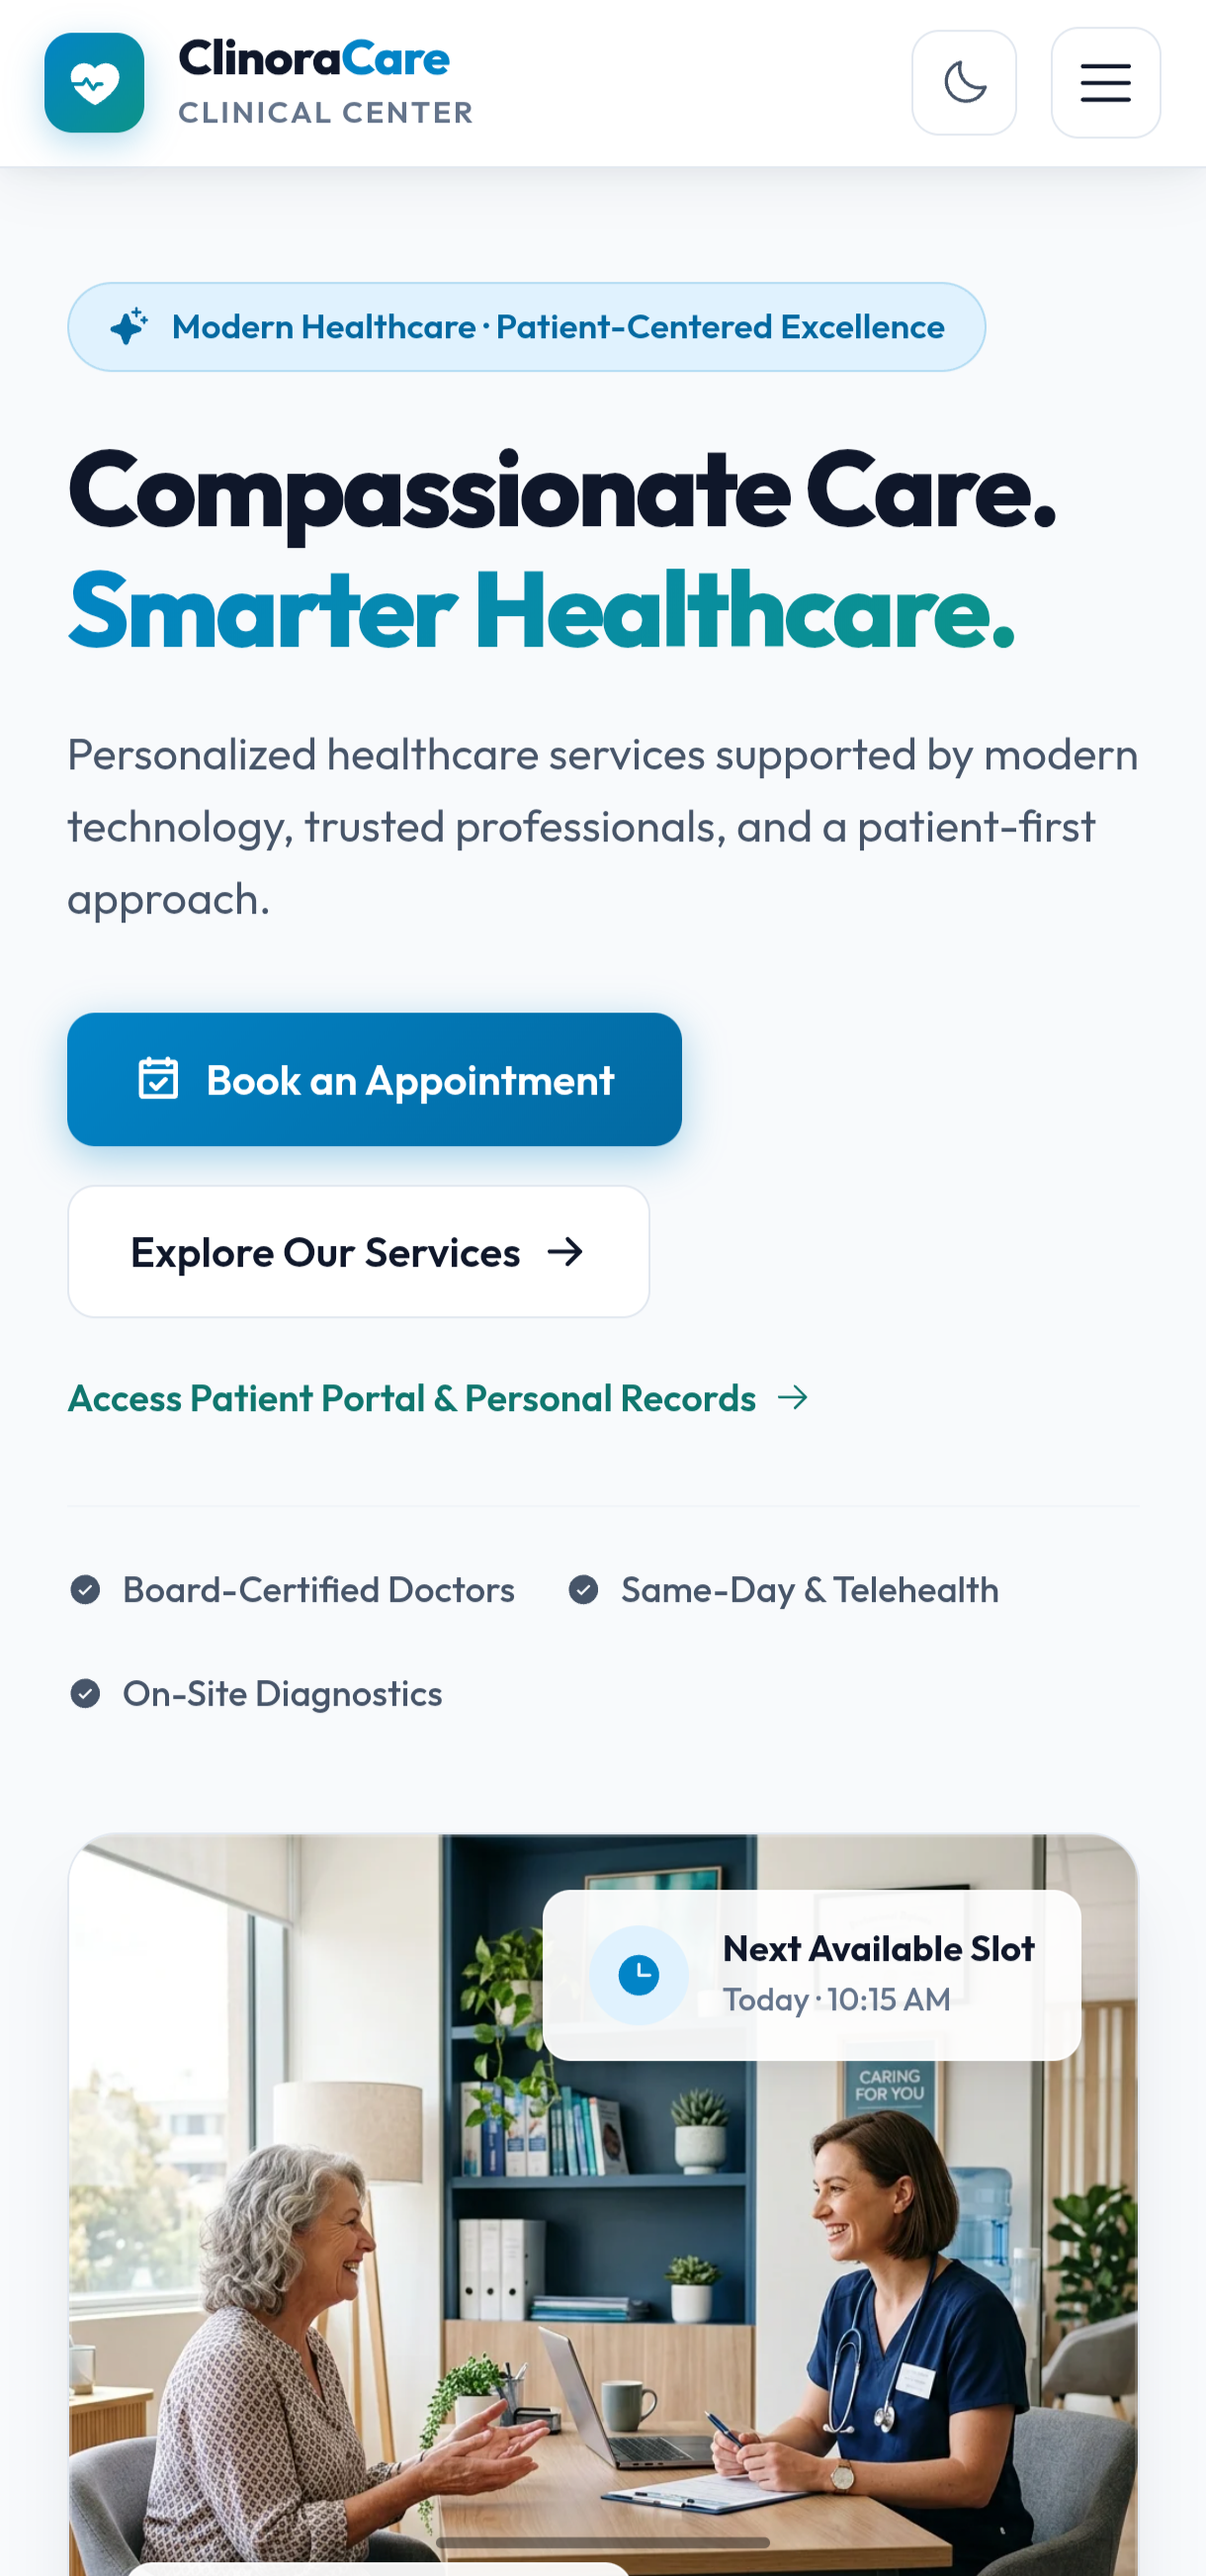
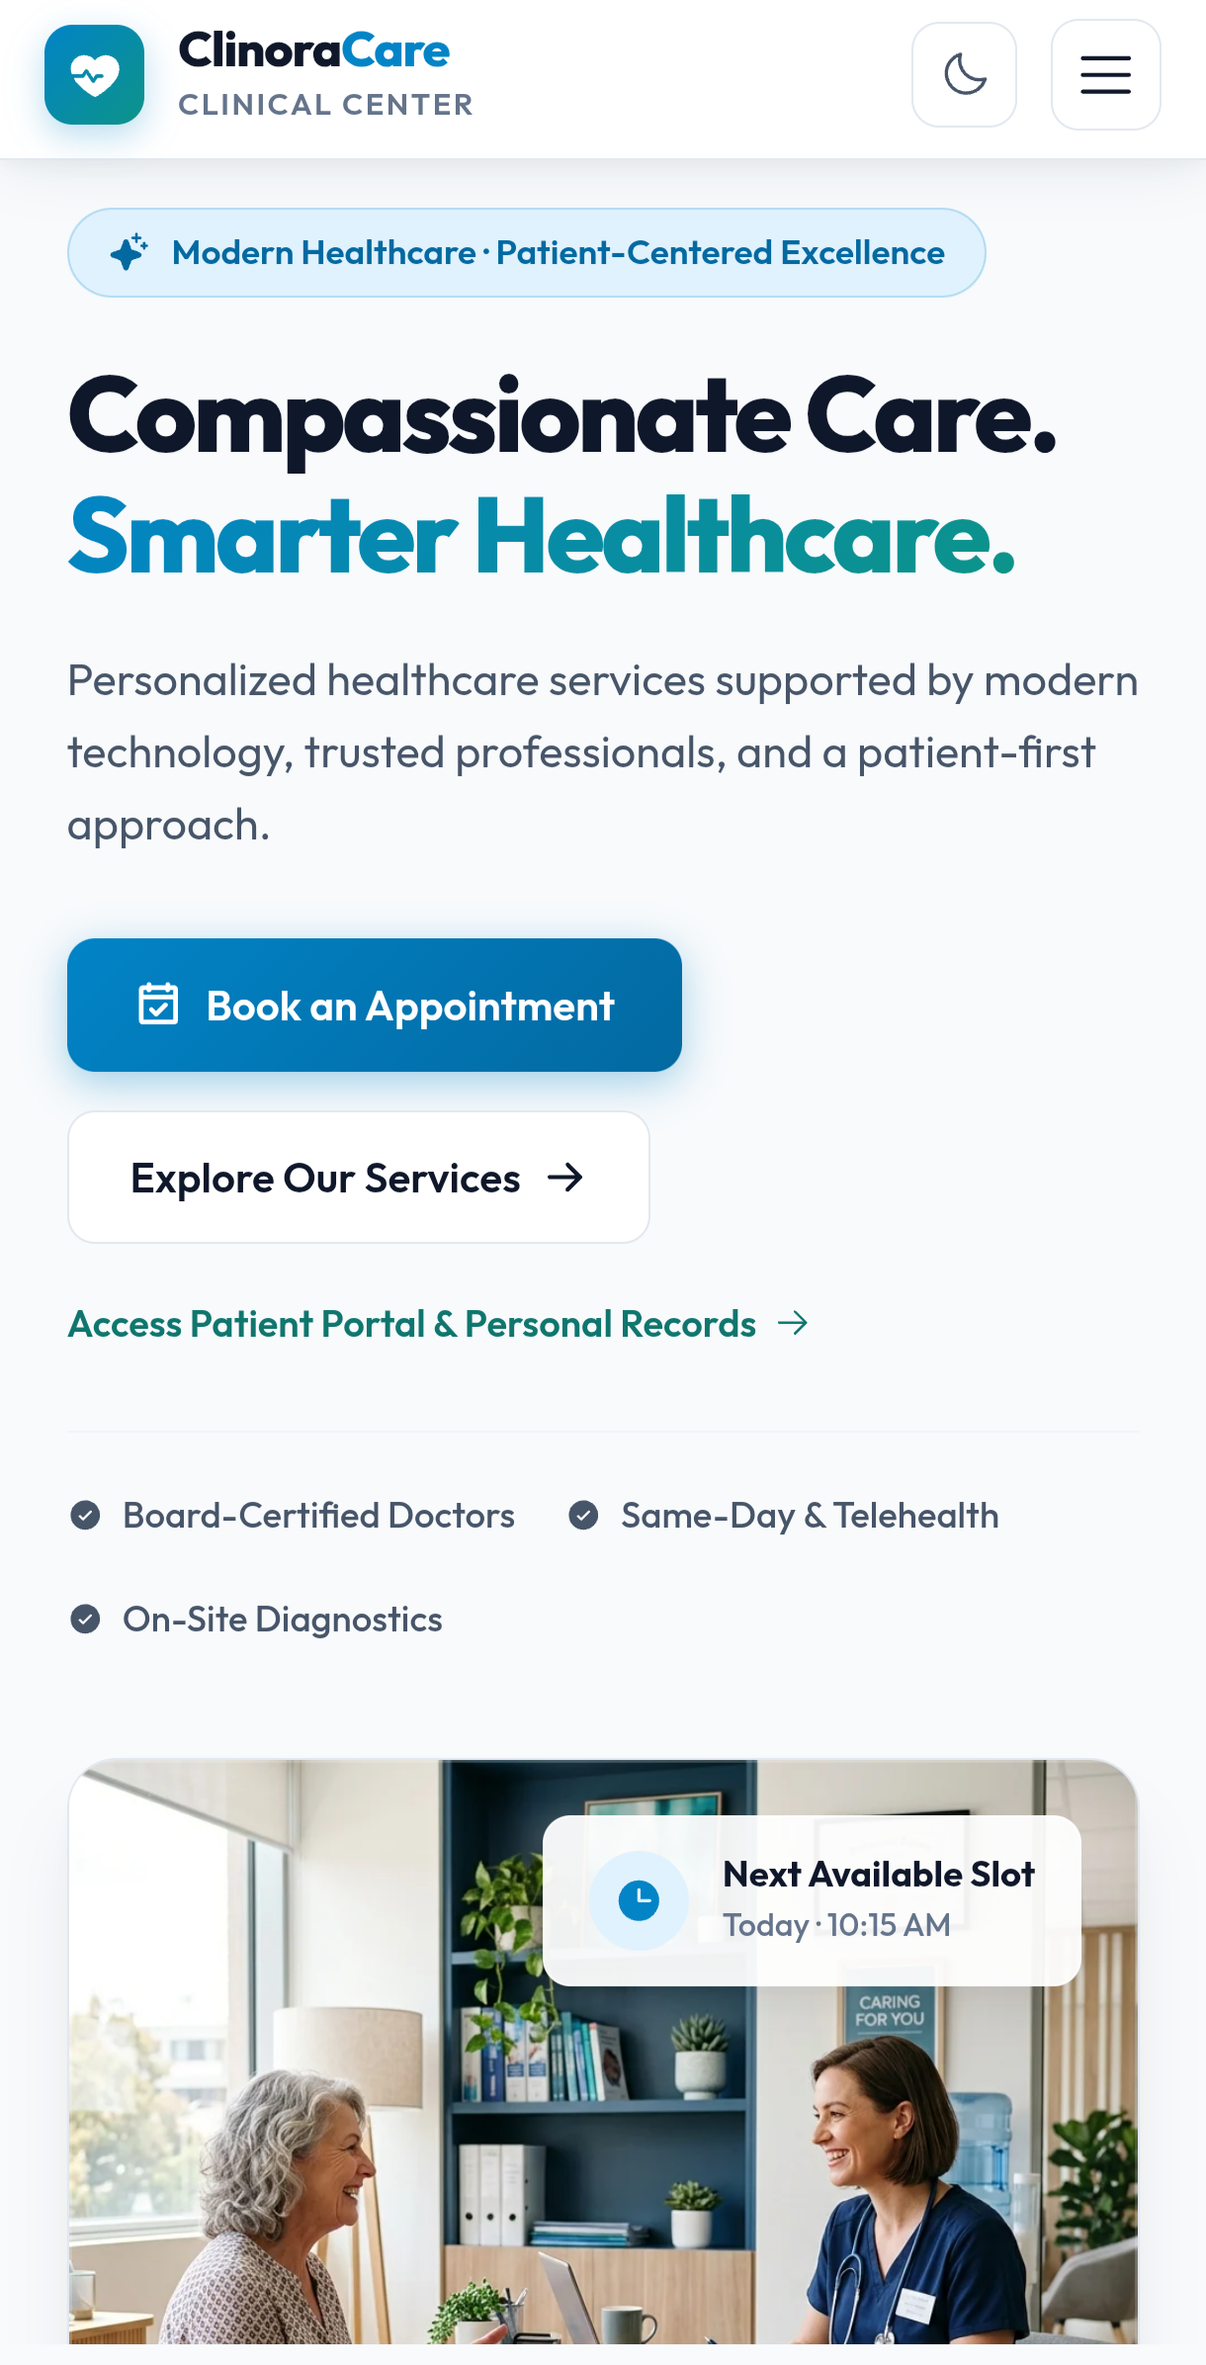
Latest work h3 and footer resources color changed

diff --git a/components/footer.html b/components/footer.html
@@ -45,7 +45,7 @@
     <div class="footer-resources">
       <h3>
         <span class="left-part">
-          Resou<span class="right-part">rces</span>
+          Re<span class="right-part">sources</span>
         </span>
       </h3>
 

diff --git a/css/latest-works.css b/css/latest-works.css
@@ -107,6 +107,10 @@ body.dark .project-card a:hover {
     gap: 1rem;
 }
 
+.card-back h3 {
+    color: #f59e0b;
+}
+
 /* STATIC GLOSS + SHIMMER OVERLAY */
 .card-thumbnail {
     /* height: 180px; */
